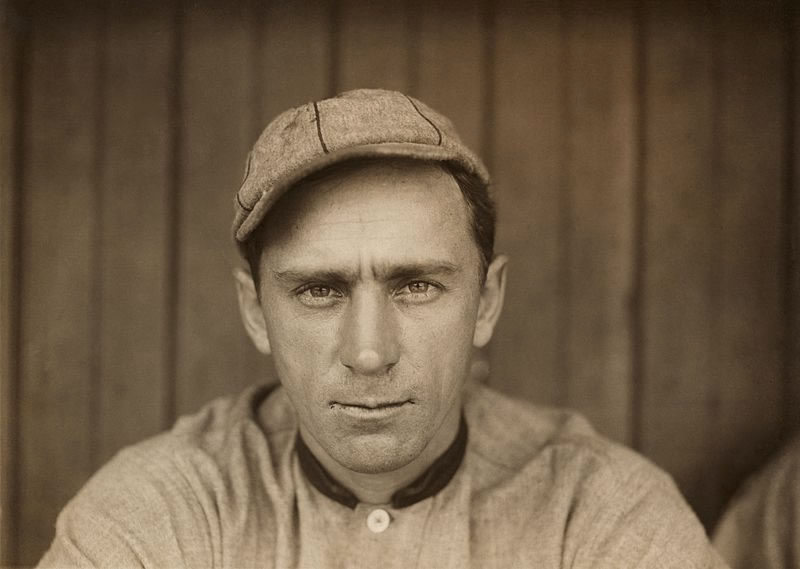
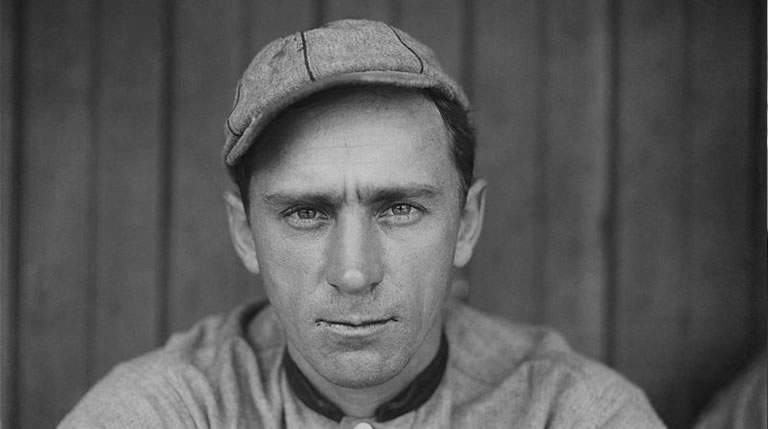
More design for position pages.

diff --git a/app/assets/stylesheets/screen.css.sass b/app/assets/stylesheets/screen.css.sass
@@ -433,6 +433,21 @@ header.generic
 
 #position-lists
   @extend #section-padding
+  ol
+    counter-reset: li
+    list-style: none
+    min-height: 160px
+    padding: 0
+  li
+    &:before
+      content: counter(li)
+      counter-increment: li
+      font-size: 75%
+      font-weight: bold
+      color: #333
+  figure
+    float: left
+    margin-right: 10px
 
 ul.article-list
   font-size: 85%

diff --git a/app/models/position.rb b/app/models/position.rb
@@ -2,5 +2,14 @@ class Position < ActiveHash::Base
   fields :img, :img_credit
 
   # Adam: replace this with real data
-  add id: 'c', img: 'foxx.jpg', img_credit: 'http://www.flickr.com/photos/boston_public_library/5887848576/'
+  add id: 'c', img: 'schanwa01.jpg', img_credit: 'http://www.flickr.com/photos/library_of_congress/6106497932/'
+  add id: '1b', img: 'bottoji01.jpg', img_credit: 'http://www.flickr.com/photos/boston_public_library/6383740299/'
+  add id: '2b', img: 'lajoina01.jpg', img_credit: 'http://www.flickr.com/photos/library_of_congress/8190451125/'
+  add id: '3b', img: 'bakerfr01.jpg', img_credit: 'http://www.flickr.com/photos/library_of_congress/6083721076/'
+  add id: 'ss', img: 'peskyjo01.jpg', img_credit: 'http://www.flickr.com/photos/boston_public_library/6082750550/'
+  add id: 'lf', img: 'mageesh01.jpg', img_credit: 'http://en.wikipedia.org/wiki/File:Sherry_Magee_circa_1911.jpg/'
+  add id: 'cf', img: 'cobbty01.jpg', img_credit: 'http://www.loc.gov/pictures/item/ggb2004008006/'
+  add id: 'rf', img: 'crawfsa01.jpg', img_credit: 'http://www.loc.gov/pictures/item/hec2008001928/'
+  add id: 'dh', img: 'thomafr04.jpg', img_credit: 'http://www.flickr.com/photos/benandclare/8201109655/'
+  add id: 'p', img: 'fellebo01.jpg', img_credit: 'http://www.flickr.com/photos/boston_public_library/6326061609/'
 end

diff --git a/app/controllers/position_controller.rb b/app/controllers/position_controller.rb
@@ -6,7 +6,7 @@ class PositionController < ApplicationController
 
     @position = params[:id]
     @position_name = PlayerDecorator::POSITIONS[@position]
-    @players = Player.of_position(@position).by_rank.limit(@position == 'p' ? 500 : 200)
+    @players = Player.of_position(@position).by_rank.limit(@position == 'p' ? 500 : @position == 'dh' ? 25: 200)
     @best_not_included = Player.of_position(@position).not_in_hos.where(eligibility: 'eligible').by_rank.limit(5)
     @best_not_inducted = Player.of_position(@position).not_in_hof.where(eligibility: 'eligible').by_rank.limit(5)
     @best_active = Player.of_position(@position).where(eligibility: 'active').by_rank.limit(5)
